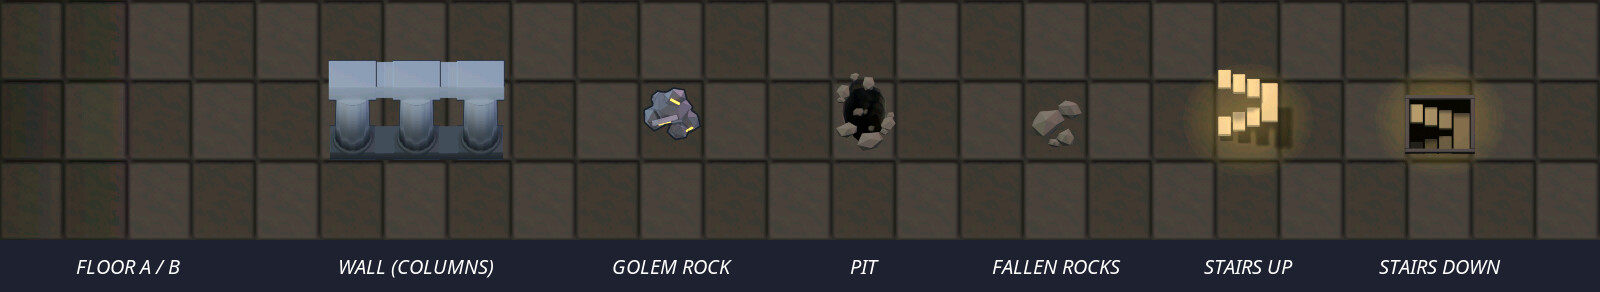
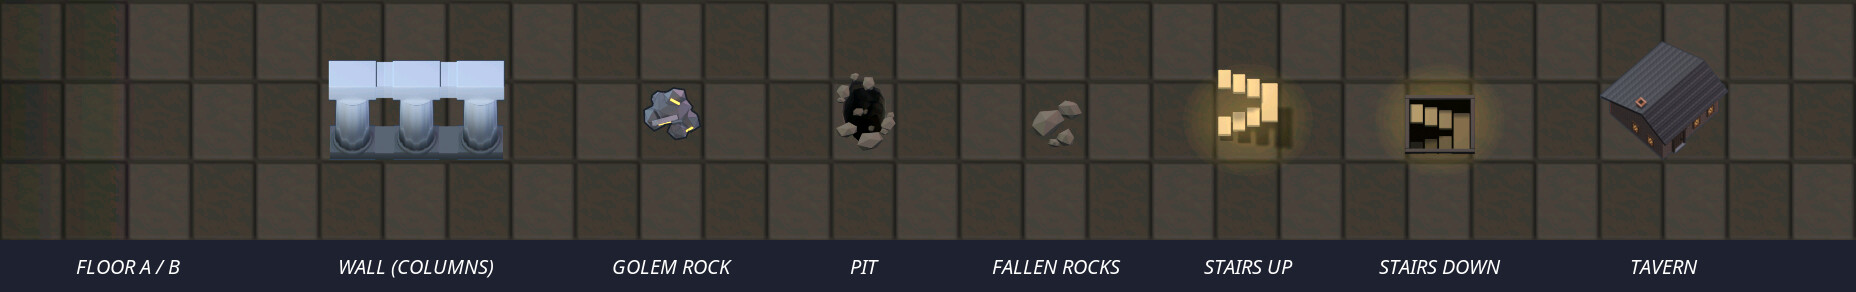
docs: show the tavern in the terrain preview
Add the Stage 6 tavern to the end of preview-terrain.jpg. It is not in
the game yet, so the preview lays its image over its two cells at the
game's scale. build-tavern.py now writes tavern.json beside the image
with how far it reaches south and north of the cells, which the preview
reads to place it.

diff --git a/dev-samples/3d-stage1/preview-terrain.py b/dev-samples/3d-stage1/preview-terrain.py
@@ -1,7 +1,8 @@
 """Headless sample of the sprite GUI's terrain: the two floor tiles, a wall
 of marble columns, a golem rock, a pit, the rocks fallen from a pit on
-the floor above, and the up and down stairs, each drawn as in the game and
-labelled.
+the floor above, the up and down stairs, each drawn as in the game, and the
+Stage 6 tavern, labelled. The tavern is not in the game yet: its image is laid
+over its two cells here, at the game's scale, placed by tavern.json.
 
     PYTHONPATH=src .venv/bin/python dev-samples/3d-stage1/preview-terrain.py [--stage N]
 
@@ -10,6 +11,7 @@ drawn in that stage's terrain look); needs ImageMagick's `convert`.
 """
 from pathlib import Path
 import argparse
+import json
 from types import SimpleNamespace
 import subprocess
 import tempfile
@@ -31,8 +33,9 @@ ROW = 4
 # (label, first column, last column) of each sample along ROW.
 SAMPLES = [('FLOOR A / B', 2, 3), ('WALL (COLUMNS)', 6, 8), ('GOLEM ROCK', 11, 11),
            ('PIT', 14, 14), ('FALLEN ROCKS', 17, 17), ('STAIRS UP', 20, 20),
-           ('STAIRS DOWN', 23, 23)]
-LEFT, RIGHT, TOP, BOTTOM = 1, 25, ROW - 1, ROW + 1
+           ('STAIRS DOWN', 23, 23), ('TAVERN', 26, 27)]
+LEFT, RIGHT, TOP, BOTTOM = 1, 29, ROW - 1, ROW + 1
+TAVERN = Path(__file__).resolve().parents[2] / 'src' / 'arlq' / 'assets' / 'tavern'
 
 ui = SpriteUI(scale=4)
 field = [[d.CHAR_FLOOR] * d.FIELD_WIDTH for _ in range(d.FIELD_HEIGHT)]
@@ -63,6 +66,15 @@ with tempfile.TemporaryDirectory() as work:
     for label, first, last in SAMPLES:
         center = (ui._field_col_x(first) + ui._field_col_x(last) + cx) / 2 - left
         labels += ['-annotate', '+%d+0' % round(center - width / 2), label]
+    placing = json.loads((TAVERN / 'tavern.json').read_text())
+    tavern_left = round(ui._field_col_x(26))
+    tavern_bottom = round((ROW + 1 + placing['under']) * cy)
+    tavern_width = round(placing['cells'] * cx)
+    tavern_height = round((placing['under'] + 1 + placing['overhang']) * cy)
+    subprocess.run(['convert', str(full), '(', str(TAVERN / 'tavern.png'), '-resize',
+                    '%dx%d!' % (tavern_width, tavern_height), ')', '-geometry',
+                    '+%d+%d' % (tavern_left, tavern_bottom - tavern_height), '-composite',
+                    str(full)], check=True)
     subprocess.run(['convert', str(full), '-crop', '%dx%d+%d+%d' % (width, height, left,
                                                                      round(TOP * cy)),
                     '+repage', '(', '-size', '%dx52' % width, 'xc:#1e2230', '-fill', 'white',

diff --git a/dev-samples/3d-stage1/build-tavern.py b/dev-samples/3d-stage1/build-tavern.py
@@ -18,10 +18,12 @@ fit the two cells' width, whatever that makes its scale beside the
 characters. The canvas is the two cells wide; it covers OVERHANG cells
 north of them, where the roof and chimney rise, and UNDER cells south of
 them, where the turned cottage's front corner and eaves reach, both found
-from the shrunk model and printed:
+from the shrunk model, printed and written beside the image:
   tavern.png
+  tavern.json  {"cells": 2, "under": UNDER, "overhang": OVERHANG}
 """
 from pathlib import Path
+import json
 import math
 
 import bpy
@@ -372,6 +374,9 @@ ups = [(shrink @ p).y * math.sin(ELEVATION) + (shrink @ p).z * math.cos(ELEVATIO
 UNDER = math.ceil(max(0.0, -min(ups)) / CELL_UP * 20) / 20
 OVERHANG = math.ceil(max(0.0, max(ups) / CELL_UP - 1) * 20) / 20
 print(f'tavern: scale {fit:.3f}, UNDER {UNDER}, OVERHANG {OVERHANG}')
+# Where the image sits on the cells, for whatever draws it.
+(OUT / 'tavern.json').write_text(json.dumps({'cells': CELLS, 'under': UNDER,
+                                             'overhang': OVERHANG}) + '\n')
 scene.render.resolution_y = round(CELL_PIXELS[1] * (UNDER + 1 + OVERHANG))
 
 # Lights as for the stairs: a warm key above and behind, cool fill and rims.

diff --git a/dev-samples/3d-stage1/README.md b/dev-samples/3d-stage1/README.md
@@ -80,7 +80,7 @@ blender --background --threads 4 --python dev-samples/3d-stage1/build-pit.py
 
 結界（`=`）のマスは、普通の敷石の上で赤い炎が燃えている姿で描く（マス全体を赤い岩にすると溶岩風呂のように見えたため）。炎はBlenderの画像ではなく、GUIが起動時に作る半透明の画像（`sprite_funcs.py` の `flame_image()`、`FLAME_*`）で、マスの下半分（下端から真ん中まで）の5か所から、大きさの違う小さな火が立ち上る。火はしずく形で、根元は丸く明るい橙、先は細く深い赤、根元の周りに柔らかい光のにじみがある。火の配置が違う2通りを市松模様に置き、背の高い火は北のマスに少しかかる。加算合成で床に重ね、キャラクターより奥に描く。動きはない。視界外の探索済みのマスは `FLAME_EXPLORED_SHADE` で暗くする。守りのお守りで結界に入っても体力を失わない間は、プレイヤーを中心にした周り1マス（自分と周りの8マス）だけ、炎の代わりに同じ形の薄い灰色の煙（`smoke_image()`、`SMOKE_*`）を描き、それより遠いマスは燃えたまま。別のフロアを見ている間は煙にしない。スプライト版では赤い `=` の文字は描かない（元のGUIと端末版は従来どおり）。
 
-地形の見え方は `preview-terrain.py` で確かめられる。ゲームの描画（`SpriteUI`）を画面なしで動かし、床タイル2種類・壁の列柱・ゴーレムの岩・落とし穴・落ちてきた岩・上り階段・下り階段を、ゲームと同じ着色でUIの最大倍率（4倍）で1列に並べ、名前を付けて `heroic/preview-terrain.jpg` に書き出す（ImageMagick の `convert` を使う）。
+地形の見え方は `preview-terrain.py` で確かめられる。ゲームの描画（`SpriteUI`）を画面なしで動かし、床タイル2種類・壁の列柱・ゴーレムの岩・落とし穴・落ちてきた岩・上り階段・下り階段を、ゲームと同じ着色でUIの最大倍率（4倍）で1列に並べ、名前を付けて `heroic/preview-terrain.jpg` に書き出す（ImageMagick の `convert` を使う）。列の右端にはステージ6の酒場（`build-tavern.py` の `tavern.png`）も並べる。酒場はまだゲームに組み込んでいないため、このスクリプトの中で、2マスの上に同じ縮尺で画像を重ねる。2マスより南と北へのはみ出し（`tavern.json` の `under` と `overhang`）は `build-tavern.py` が書き出す。
 
 ```bash
 PYTHONPATH=src .venv/bin/python dev-samples/3d-stage1/preview-terrain.py
